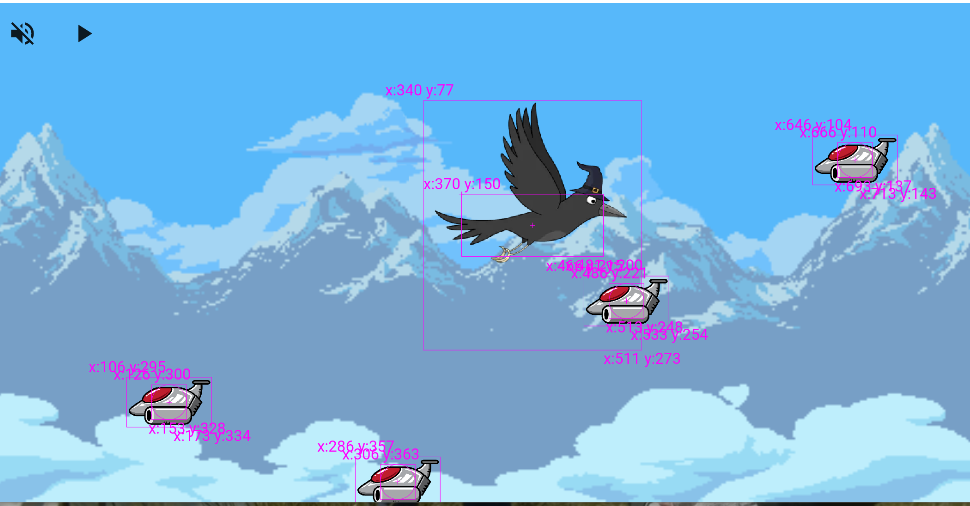
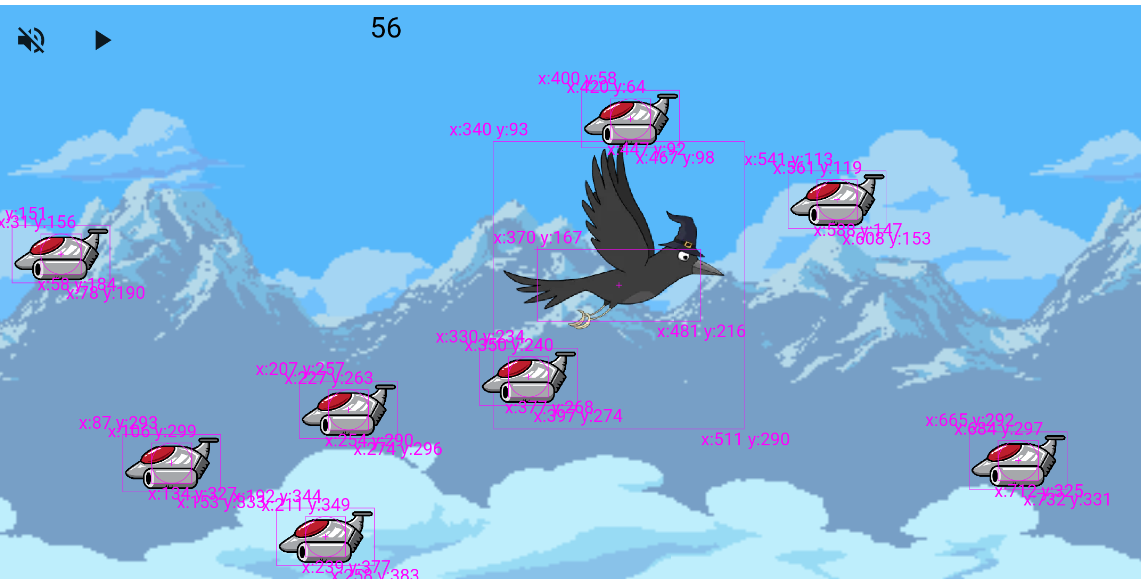
extracted addShips into method

diff --git a/lib/screens/home_screen.dart b/lib/screens/home_screen.dart
@@ -14,7 +14,12 @@ class HomeScreen extends Component with HasGameRef<ScrollGame>, TapCallbacks {
   void onLoad() async {
     add(MountainBackground());
     add(Crow());
+    addShips();
+    add(ElapsedTime());
+    gameRef.stopwatch.start();
+  }
 
+  void addShips() {
     interval.onTick = () {
       double elapsedSeconds = gameRef.stopwatch.elapsed.inSeconds.toDouble();
       add(AirShip(elapsedSeconds));
@@ -51,8 +56,6 @@ class HomeScreen extends Component with HasGameRef<ScrollGame>, TapCallbacks {
         );
       }
     };
-    gameRef.stopwatch.start();
-    add(ElapsedTime());
   }
 
   @override
